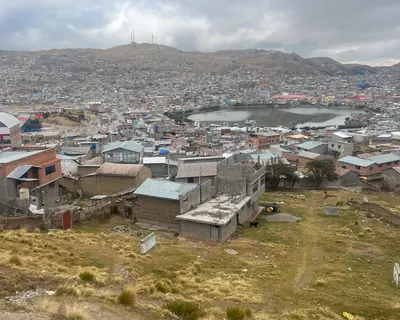
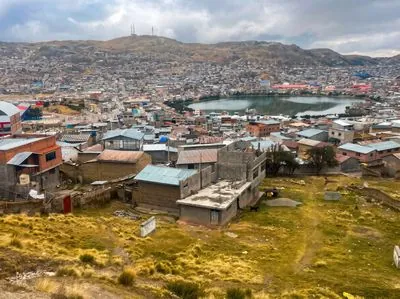
Pasco: nueva foto 1 (vista de la ciudad con la laguna), tambien portada e imagen para compartir

diff --git a/src/lib/projects.ts b/src/lib/projects.ts
@@ -183,7 +183,7 @@ export const projects: Project[] = [
     title: 'Mejoramiento y ampliación de los servicios de saneamiento — EMAPA Pasco',
     location: 'Cerro de Pasco, Pasco',
     cover: galeriaPasco01,
-    coverSrcSet: `${coverPasco640} 640w, ${coverPasco960} 960w, ${galeriaPasco01} 1038w`,
+    coverSrcSet: `${coverPasco640} 640w, ${coverPasco960} 960w, ${galeriaPasco01} 1600w`,
     client: { name: 'Gobierno Regional de Pasco', logo: logoClienteGorePasco },
     contractor: {
       name: 'Consorcio Saneamiento Señor Cautivo',
